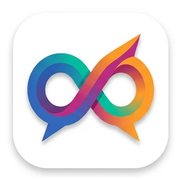
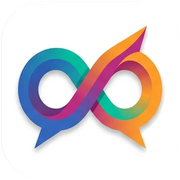
Make Idiomex an installable PWA (#18)
- manifest.webmanifest com nome, cores e ícones (inclui ícone
  "maskable" para Android, que recorta o ícone em círculo/gota).
- Ícones novos de 192 e 512 px e apple-touch-icon a partir do símbolo
  do logo atual.
- sw.js: guarda telas, estilos, scripts e imagens do site para abrir
  sem internet; sempre busca a versão nova na rede quando há conexão.
  Firebase e IA ficam de fora do cache.
- Quem já está logado vai direto para o painel ao abrir o app, em vez
  de ver a tela de login.
- firebase.json: sw.js sem cache no Hosting, para as atualizações do
  service worker chegarem logo.

Claude-Session: https://claude.ai/code/session_019agf412Nn5ue6q4zh7eELg

diff --git a/sw.js b/sw.js
@@ -1,0 +1,66 @@
+// ============================================================
+// SERVICE WORKER — deixa o Idiomex instalável e abrindo rápido
+// ============================================================
+// Guarda as telas, estilos, scripts e imagens do próprio site. Os dados (Firebase)
+// e a IA (Vercel) ficam de fora: vêm de outros domínios e sempre vão pela rede.
+//
+// O site sempre vem da rede quando há internet, então não é preciso mexer em VERSAO
+// a cada atualização — só se mudar a lista ARQUIVOS_BASE.
+// ============================================================
+
+const VERSAO = "idiomex-v1";
+
+const ARQUIVOS_BASE = [
+  "./",
+  "index.html",
+  "dicionario.html",
+  "professor.html",
+  "css/style.css",
+  "css/novidades.css",
+  "js/firebase-config.js",
+  "js/util.js",
+  "js/auth.js",
+  "js/tema.js",
+  "js/dicionario.js",
+  "js/professor.js",
+  "assets/logo.png",
+  "assets/logo-noturno.png",
+  "assets/icon-192.png",
+  "assets/favicon-32.png",
+  "manifest.webmanifest"
+];
+
+self.addEventListener("install", (evento) => {
+  evento.waitUntil(caches.open(VERSAO).then((cache) => cache.addAll(ARQUIVOS_BASE)));
+  self.skipWaiting();
+});
+
+self.addEventListener("activate", (evento) => {
+  evento.waitUntil(
+    caches.keys()
+      .then((nomes) => Promise.all(nomes.filter((n) => n !== VERSAO).map((n) => caches.delete(n))))
+      .then(() => self.clients.claim())
+  );
+});
+
+self.addEventListener("fetch", (evento) => {
+  const pedido = evento.request;
+  const url = new URL(pedido.url);
+  if (pedido.method !== "GET" || url.origin !== self.location.origin) return;
+
+  // Sempre tenta a rede primeiro, pra ninguém ficar com uma versão velha do site
+  // depois de uma atualização. A cópia guardada só é usada quando está sem internet.
+  evento.respondWith(
+    fetch(pedido)
+      .then((resposta) => {
+        if (resposta.ok) {
+          const copia = resposta.clone();
+          caches.open(VERSAO).then((cache) => cache.put(pedido, copia));
+        }
+        return resposta;
+      })
+      .catch(() => caches.match(pedido).then((guardada) =>
+        guardada || (pedido.mode === "navigate" ? caches.match("index.html") : Response.error())
+      ))
+  );
+});

diff --git a/index.html b/index.html
@@ -15,6 +15,13 @@
 <link rel="icon" type="image/png" sizes="32x32" href="assets/favicon-32.png">
 <link rel="icon" type="image/png" sizes="192x192" href="assets/favicon-192.png">
 <link rel="apple-touch-icon" href="assets/apple-touch-icon.png">
+<link rel="manifest" href="manifest.webmanifest">
+<meta name="theme-color" content="#5F8567">
+<meta name="apple-mobile-web-app-capable" content="yes">
+<meta name="mobile-web-app-capable" content="yes">
+<meta name="apple-mobile-web-app-title" content="Idiomex">
+<meta name="apple-mobile-web-app-status-bar-style" content="default">
+<script src="js/pwa.js" defer></script>
 <link rel="stylesheet" href="css/style.css">
 <link rel="stylesheet" href="css/novidades.css">
 </head>
@@ -90,6 +97,18 @@
 <script src="js/util.js"></script>
 <script src="js/auth.js"></script>
 <script>
+// Quem já está logado (ex: abrindo o app instalado no celular) vai direto pro seu painel.
+// Durante o cadastro o perfil ainda não existe nesse instante — aí não faz nada, e o
+// próprio cadastro redireciona quando terminar.
+auth.onAuthStateChanged(async function (user) {
+  if (!user) return;
+  try {
+    const perfil = await db.collection('usuarios').doc(user.uid).get();
+    if (perfil.exists) redirecionarPorTipo(perfil.data().tipo);
+  } catch (e) {
+    console.warn('Não foi possível abrir o painel automaticamente:', e);
+  }
+});
 function mostrarAba(aba) {
   const ehLogin = aba === 'login';
   document.getElementById('form-login').classList.toggle('oculto', !ehLogin);

diff --git a/dicionario.html b/dicionario.html
@@ -26,6 +26,13 @@
 <link rel="icon" type="image/png" sizes="32x32" href="assets/favicon-32.png">
 <link rel="icon" type="image/png" sizes="192x192" href="assets/favicon-192.png">
 <link rel="apple-touch-icon" href="assets/apple-touch-icon.png">
+<link rel="manifest" href="manifest.webmanifest">
+<meta name="theme-color" content="#5F8567">
+<meta name="apple-mobile-web-app-capable" content="yes">
+<meta name="mobile-web-app-capable" content="yes">
+<meta name="apple-mobile-web-app-title" content="Idiomex">
+<meta name="apple-mobile-web-app-status-bar-style" content="default">
+<script src="js/pwa.js" defer></script>
 <link rel="stylesheet" href="css/style.css">
 <link rel="stylesheet" href="css/novidades.css">
 </head>

diff --git a/professor.html b/professor.html
@@ -15,6 +15,13 @@
 <link rel="icon" type="image/png" sizes="32x32" href="assets/favicon-32.png">
 <link rel="icon" type="image/png" sizes="192x192" href="assets/favicon-192.png">
 <link rel="apple-touch-icon" href="assets/apple-touch-icon.png">
+<link rel="manifest" href="manifest.webmanifest">
+<meta name="theme-color" content="#5F8567">
+<meta name="apple-mobile-web-app-capable" content="yes">
+<meta name="mobile-web-app-capable" content="yes">
+<meta name="apple-mobile-web-app-title" content="Idiomex">
+<meta name="apple-mobile-web-app-status-bar-style" content="default">
+<script src="js/pwa.js" defer></script>
 <link rel="stylesheet" href="css/style.css">
 <link rel="stylesheet" href="css/novidades.css">
 </head>

diff --git a/js/pwa.js b/js/pwa.js
@@ -1,0 +1,6 @@
+// Registra o service worker (sw.js), que deixa o Idiomex instalável como app
+if ("serviceWorker" in navigator) {
+  window.addEventListener("load", () => {
+    navigator.serviceWorker.register("sw.js").catch((e) => console.warn("Service worker não registrado:", e));
+  });
+}

diff --git a/README.md b/README.md
@@ -62,6 +62,15 @@ firebase init hosting   # escolha "usar pasta atual" como public
 firebase deploy
 ```
 
+## App no celular (PWA)
+
+O Idiomex pode ser instalado como app: no Android (Chrome), toque em
+**"Instalar app"** ou no menu ⋮ → **"Adicionar à tela inicial"**; no iPhone
+(Safari), toque em **Compartilhar** → **"Adicionar à Tela de Início"**. O
+`manifest.webmanifest` define nome, cores e ícones, e o `sw.js` guarda as
+telas do site para abrirem mesmo sem internet (os dados continuam vindo
+do Firebase).
+
 ## Como o vínculo professor-aluno funciona
 
 - Ao criar conta como **professor**, o sistema gera automaticamente um
